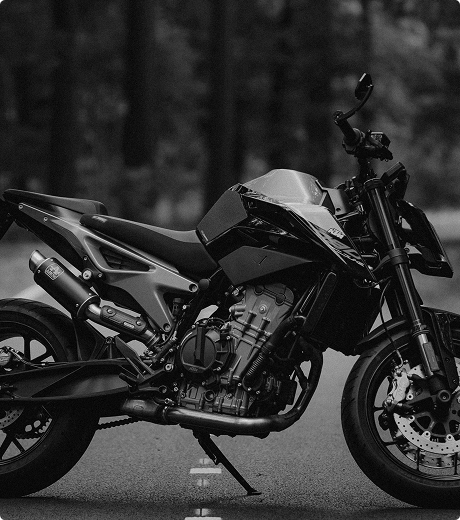
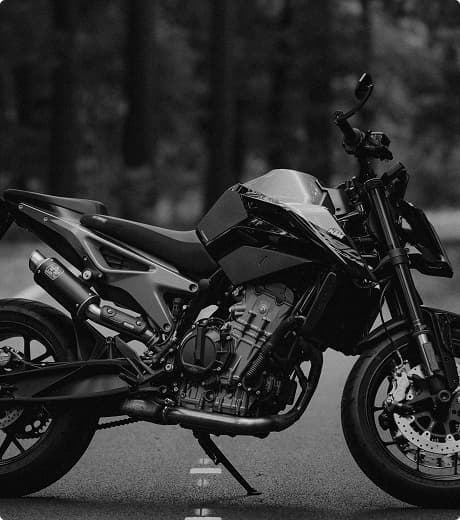
otimização de imagens (compressão)

diff --git a/index.html b/index.html
@@ -8,6 +8,7 @@
   <meta name="description" content="RUSH Motorcycles — motos de alto desempenho, design sob medida e planos de seguro completos. Tecnologia, velocidade e estilo em cada detalhe.">
   <meta name="keywords" content="motocicletas, motos de alto desempenho, design sob medida, planos de seguro para motos, tecnologia em motocicletas, velocidade, estilo em motos">
   <meta name="author" content="RUSH Motorcycles">
+  <link rel="preload" href="./css/style.css" as="style">
   <link rel="stylesheet" href="./css/style.css">
   <link rel="preconnect" href="https://fonts.googleapis.com">
   <link rel="preconnect" href="https://fonts.gstatic.com" crossorigin>
@@ -101,7 +102,7 @@
         </div>
       </div>
       <div class="tecnologia-img">
-        <img src="./img/fotos/diferencial.jpg" alt="">
+        <img src="./img/fotos/diferencial.jpg" loading="lazy" alt="">
       </div>
     </div>
   </article>
@@ -123,7 +124,7 @@
 
   <section class="depoimento" aria-label="Depoimento">
     <div>
-      <img src="./img/fotos/depoimento.jpg" alt="Pessoa pedalando uma Motocicleta Rush">
+      <img src="./img/fotos/depoimento.jpg" loading="lazy" alt="Pessoa pedalando uma Motocicleta Rush">
     </div>
     <div class="depoimento-conteudo">
       <blockquote class="font-1-xl cor-p5">

diff --git a/termos.html b/termos.html
@@ -8,6 +8,7 @@
   <meta name="description" content="Termos e Condições da RUSH Motorcycles — motos de alto desempenho, design sob medida e planos de seguro completos. Tecnologia, velocidade e estilo em cada detalhe.">
   <meta name="keywords" content="motocicletas, motos de alto desempenho, design sob medida, planos de seguro para motos, tecnologia em motocicletas, velocidade, estilo em motos">
   <meta name="author" content="RUSH Motorcycles">
+  <link rel="preload" href="./css/style.css" as="style">
   <link rel="stylesheet" href="./css/style.css">
   <link rel="preconnect" href="https://fonts.googleapis.com">
   <link rel="preconnect" href="https://fonts.gstatic.com" crossorigin>

diff --git a/motocicletas.html b/motocicletas.html
@@ -8,6 +8,7 @@
   <meta name="description" content="Motocicletas da RUSH Motorcycles — motos de alto desempenho, design sob medida e planos de seguro completos. Tecnologia, velocidade e estilo em cada detalhe.">
   <meta name="keywords" content="motocicletas, motos de alto desempenho, design sob medida, planos de seguro para motos, tecnologia em motocicletas, velocidade, estilo em motos">
   <meta name="author" content="RUSH Motorcycles">
+  <link rel="preload" href="./css/style.css" as="style">
   <link rel="stylesheet" href="./css/style.css">
   <link rel="preconnect" href="https://fonts.googleapis.com">
   <link rel="preconnect" href="https://fonts.gstatic.com" crossorigin>

diff --git a/seguros.html b/seguros.html
@@ -8,6 +8,7 @@
   <meta name="description" content="Motocicletas da RUSH Motorcycles — motos de alto desempenho, design sob medida e planos de seguro completos. Tecnologia, velocidade e estilo em cada detalhe.">
   <meta name="keywords" content="motocicletas, motos de alto desempenho, design sob medida, planos de seguro para motos, tecnologia em motocicletas, velocidade, estilo em motos">
   <meta name="author" content="RUSH Motorcycles">
+  <link rel="preload" href="./css/style.css" as="style">
   <link rel="stylesheet" href="./css/style.css">
   <link rel="preconnect" href="https://fonts.googleapis.com">
   <link rel="preconnect" href="https://fonts.gstatic.com" crossorigin>

diff --git a/orcamento.html b/orcamento.html
@@ -8,6 +8,7 @@
   <meta name="description" content="Orçamento da RUSH Motorcycles — motos de alto desempenho, design sob medida e planos de seguro completos. Tecnologia, velocidade e estilo em cada detalhe.">
   <meta name="keywords" content="motocicletas, motos de alto desempenho, design sob medida, planos de seguro para motos, tecnologia em motocicletas, velocidade, estilo em motos">
   <meta name="author" content="RUSH Motorcycles">
+  <link rel="preload" href="./css/style.css" as="style">
   <link rel="stylesheet" href="./css/style.css">
   <link rel="preconnect" href="https://fonts.googleapis.com">
   <link rel="preconnect" href="https://fonts.gstatic.com" crossorigin>

diff --git a/contato.html b/contato.html
@@ -8,6 +8,7 @@
   <meta name="description" content="Contatoda RUSH Motorcycles — motos de alto desempenho, design sob medida e planos de seguro completos. Tecnologia, velocidade e estilo em cada detalhe.">
   <meta name="keywords" content="motocicletas, motos de alto desempenho, design sob medida, planos de seguro para motos, tecnologia em motocicletas, velocidade, estilo em motos">
   <meta name="author" content="RUSH Motorcycles">
+  <link rel="preload" href="./css/style.css" as="style">
   <link rel="stylesheet" href="./css/style.css">
   <link rel="preconnect" href="https://fonts.googleapis.com">
   <link rel="preconnect" href="https://fonts.gstatic.com" crossorigin>

diff --git a/css/style.css b/css/style.css
@@ -25,9 +25,7 @@
 /*contato*/
 @import "./contato/contato.css";
 @import "./contato/loja.css";
-
 /*orcamento*/
 @import "./orcamento/orcamento.css";
-
 /*termos*/
 @import "./termos/termos.css";
